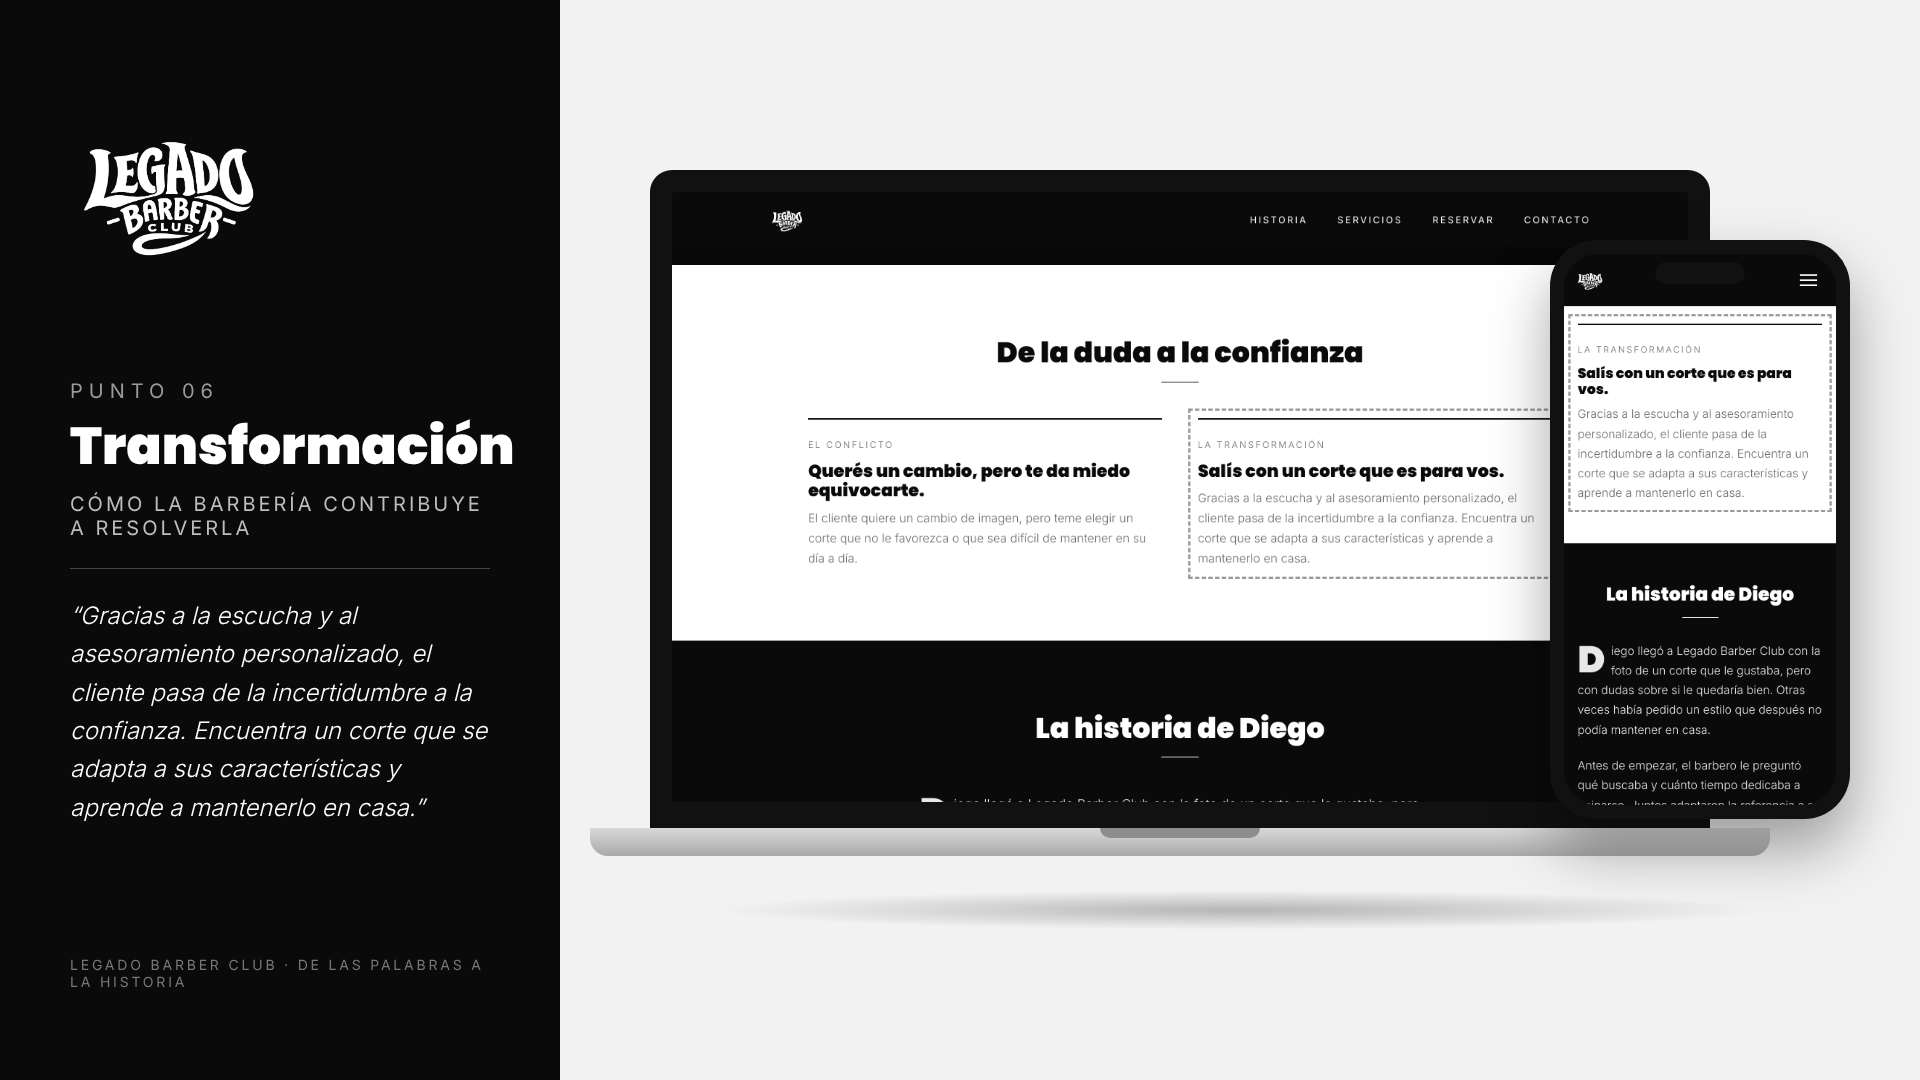
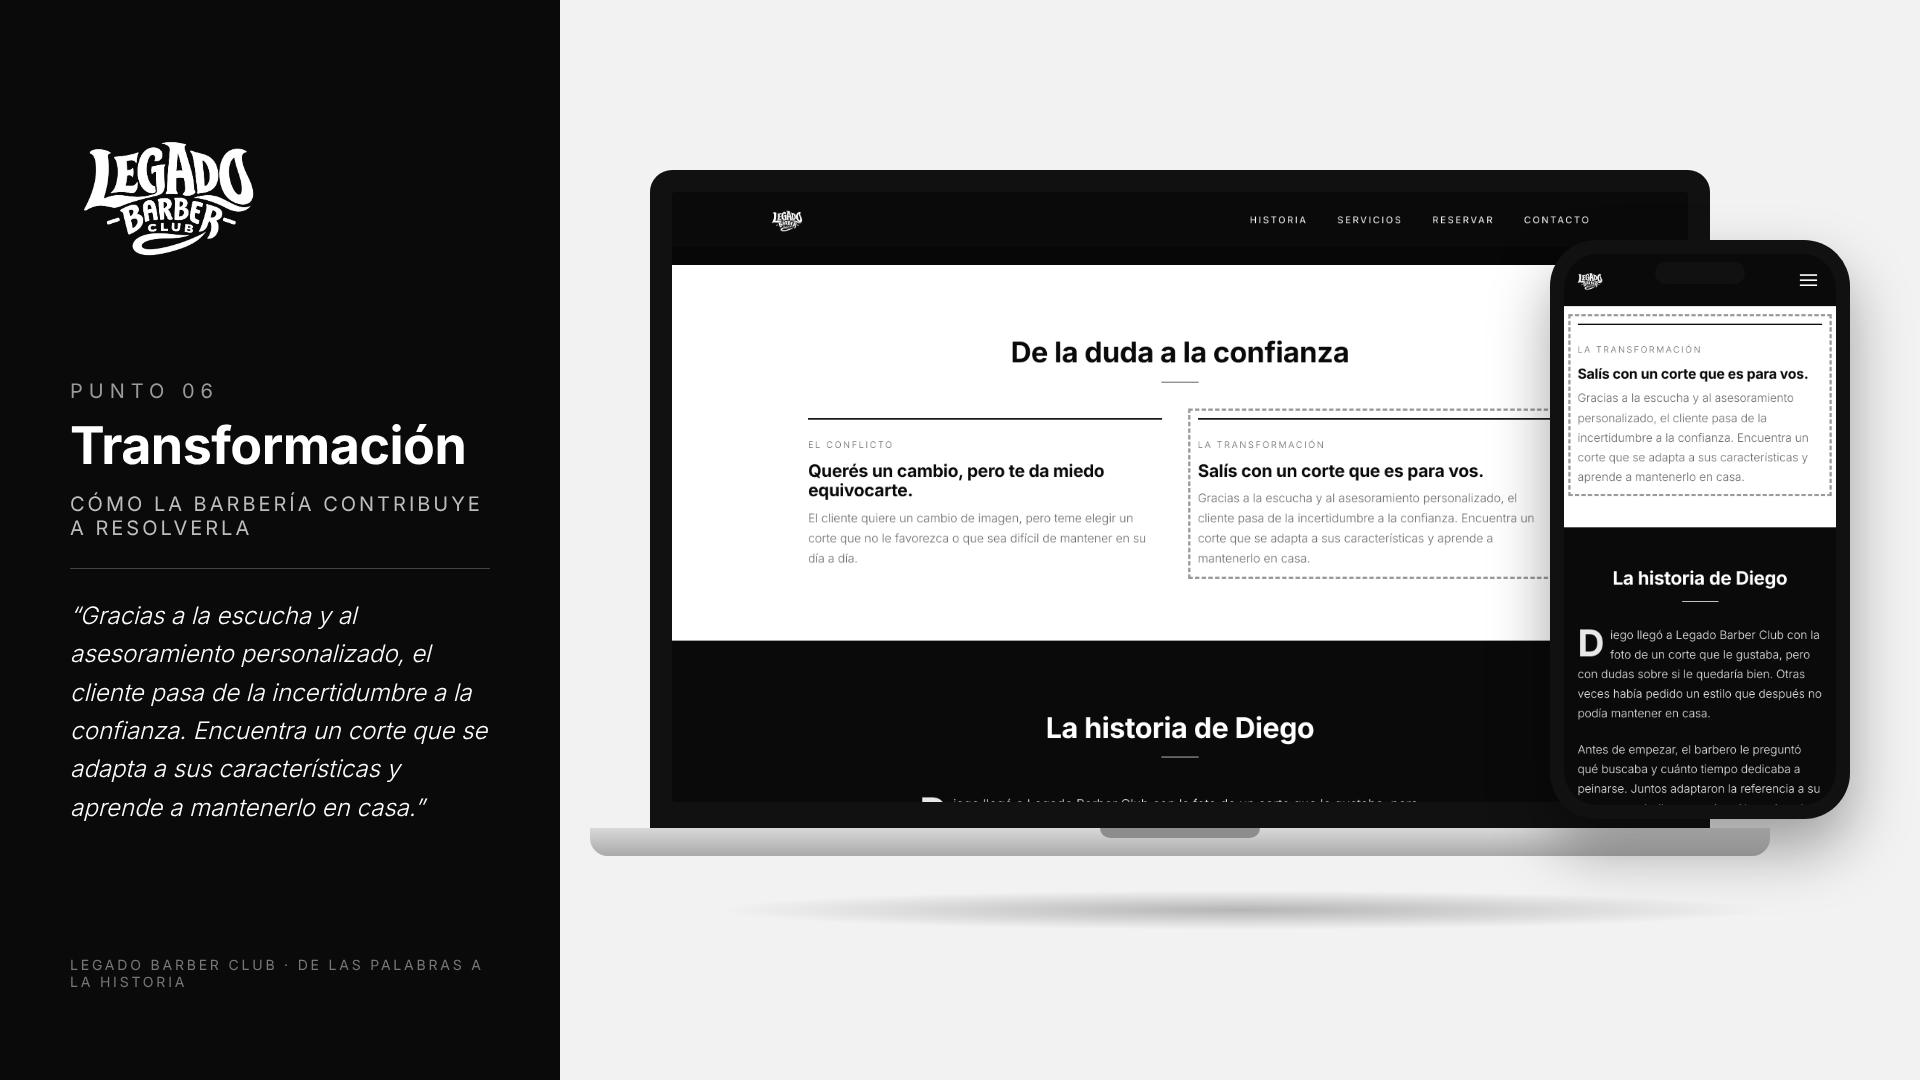
Títulos en Helvetica negrita (Inter Bold de respaldo) y mockups actualizados
Claude-Session: https://claude.ai/code/session_01RobnzDRJb2ZKhNGXWR7zKK

diff --git a/styles.css b/styles.css
@@ -1,5 +1,6 @@
-/* Poppins Black: títulos gruesos y contundentes como el logo. Inter: texto de lectura */
-@import url('https://fonts.googleapis.com/css2?family=Poppins:wght@900&family=Inter:wght@300;400;500&display=swap');
+/* Títulos en Helvetica (Now si está instalada) en negrita; Inter Bold como respaldo donde no hay Helvetica.
+   Inter también es el texto de lectura */
+@import url('https://fonts.googleapis.com/css2?family=Inter:wght@300;400;500;700&display=swap');
 
 :root {
   --negro: #0a0a0a;
@@ -7,7 +8,7 @@
   --gris: #6b6b6b;
   --gris-claro: #e8e8e8;
   --blanco: #ffffff;
-  --display: 'Poppins', 'Arial Black', sans-serif;
+  --display: 'Helvetica Now Display', 'Helvetica Now Text', 'Helvetica Neue', Helvetica, 'Inter', Arial, sans-serif;
   --nav-alto: 72px;
 }
 
@@ -19,7 +20,7 @@ body {
   overflow-x: hidden;
 }
 img { max-width: 100%; }
-h1, h2, h3 { font-family: var(--display); font-weight: 900; line-height: 1.15; }
+h1, h2, h3 { font-family: var(--display); font-weight: 700; line-height: 1.15; letter-spacing: -.01em; }
 
 /* ---------- Navegación ---------- */
 header { position: sticky; top: 0; z-index: 10; background: var(--negro); }
@@ -101,7 +102,7 @@ nav ul a:hover { border-color: var(--blanco); }
 .relato { max-width: 700px; text-align: left; font-size: clamp(1rem, 2.5vw, 1.1rem); }
 .relato p { margin-bottom: 1.4rem; color: var(--gris-claro); }
 .relato p:first-child::first-letter {
-  font-family: var(--display); font-size: 3.2rem; float: left; line-height: 1; padding-right: .5rem;
+  font-family: var(--display); font-weight: 700; font-size: 3.2rem; float: left; line-height: 1; padding-right: .5rem;
 }
 
 /* Servicios */
